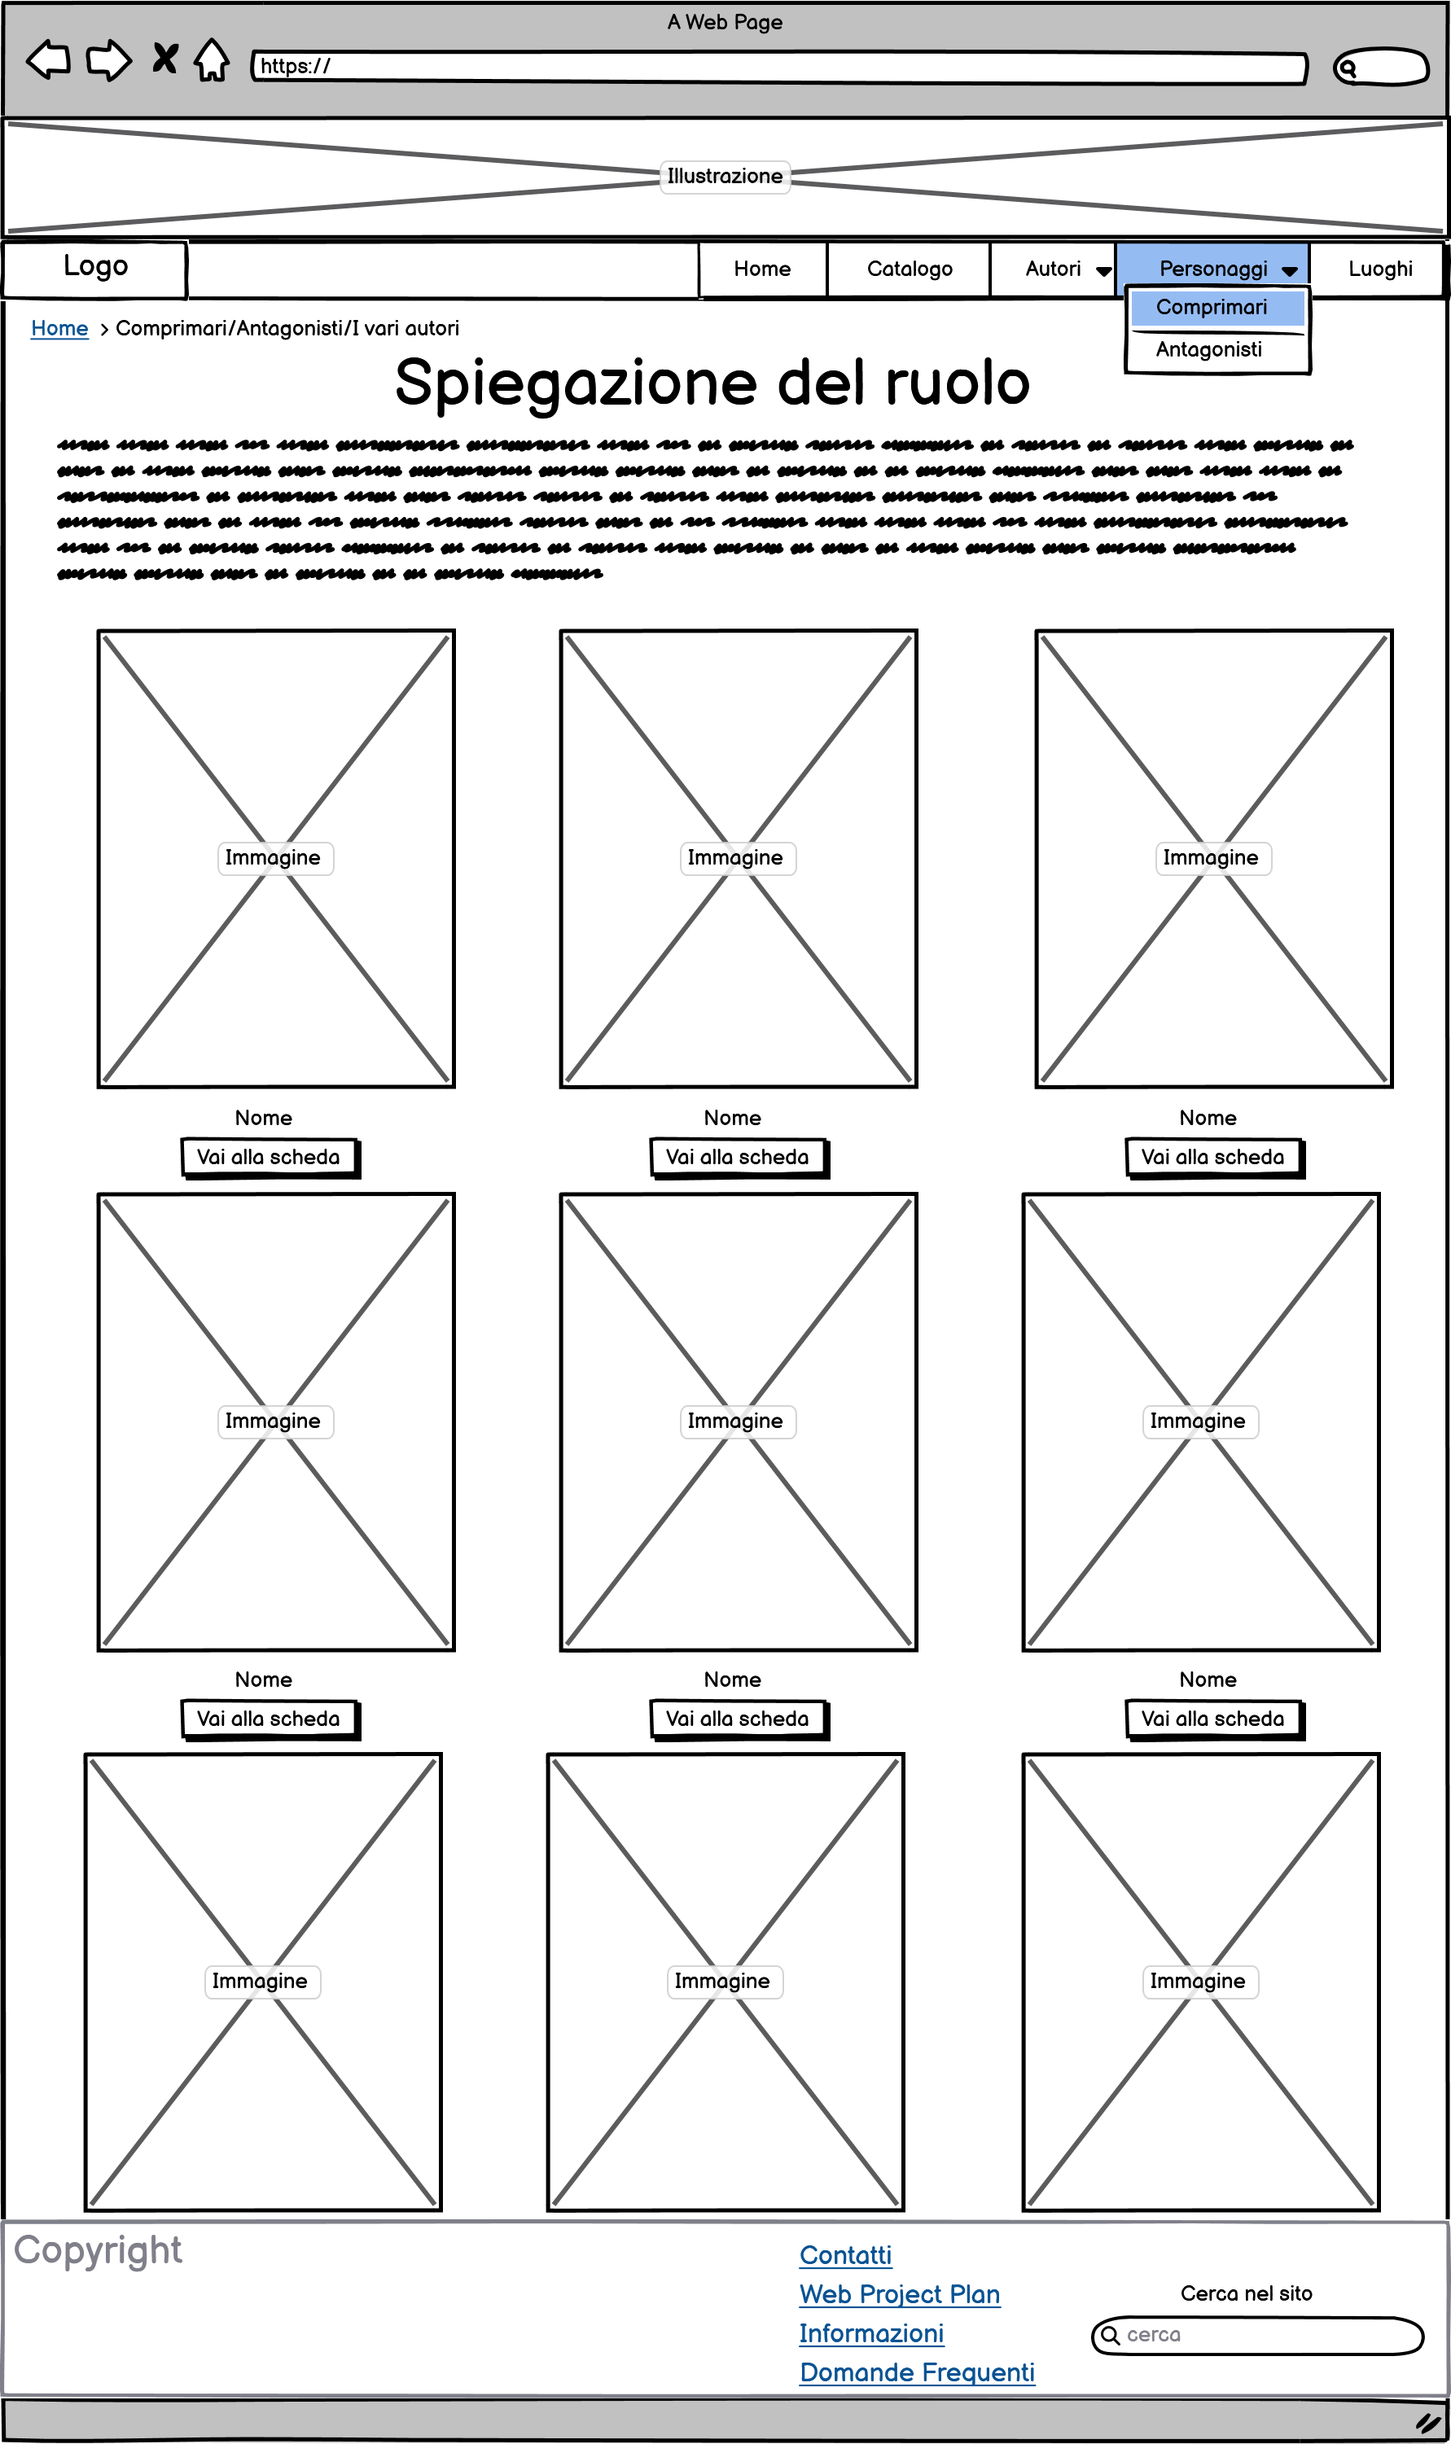
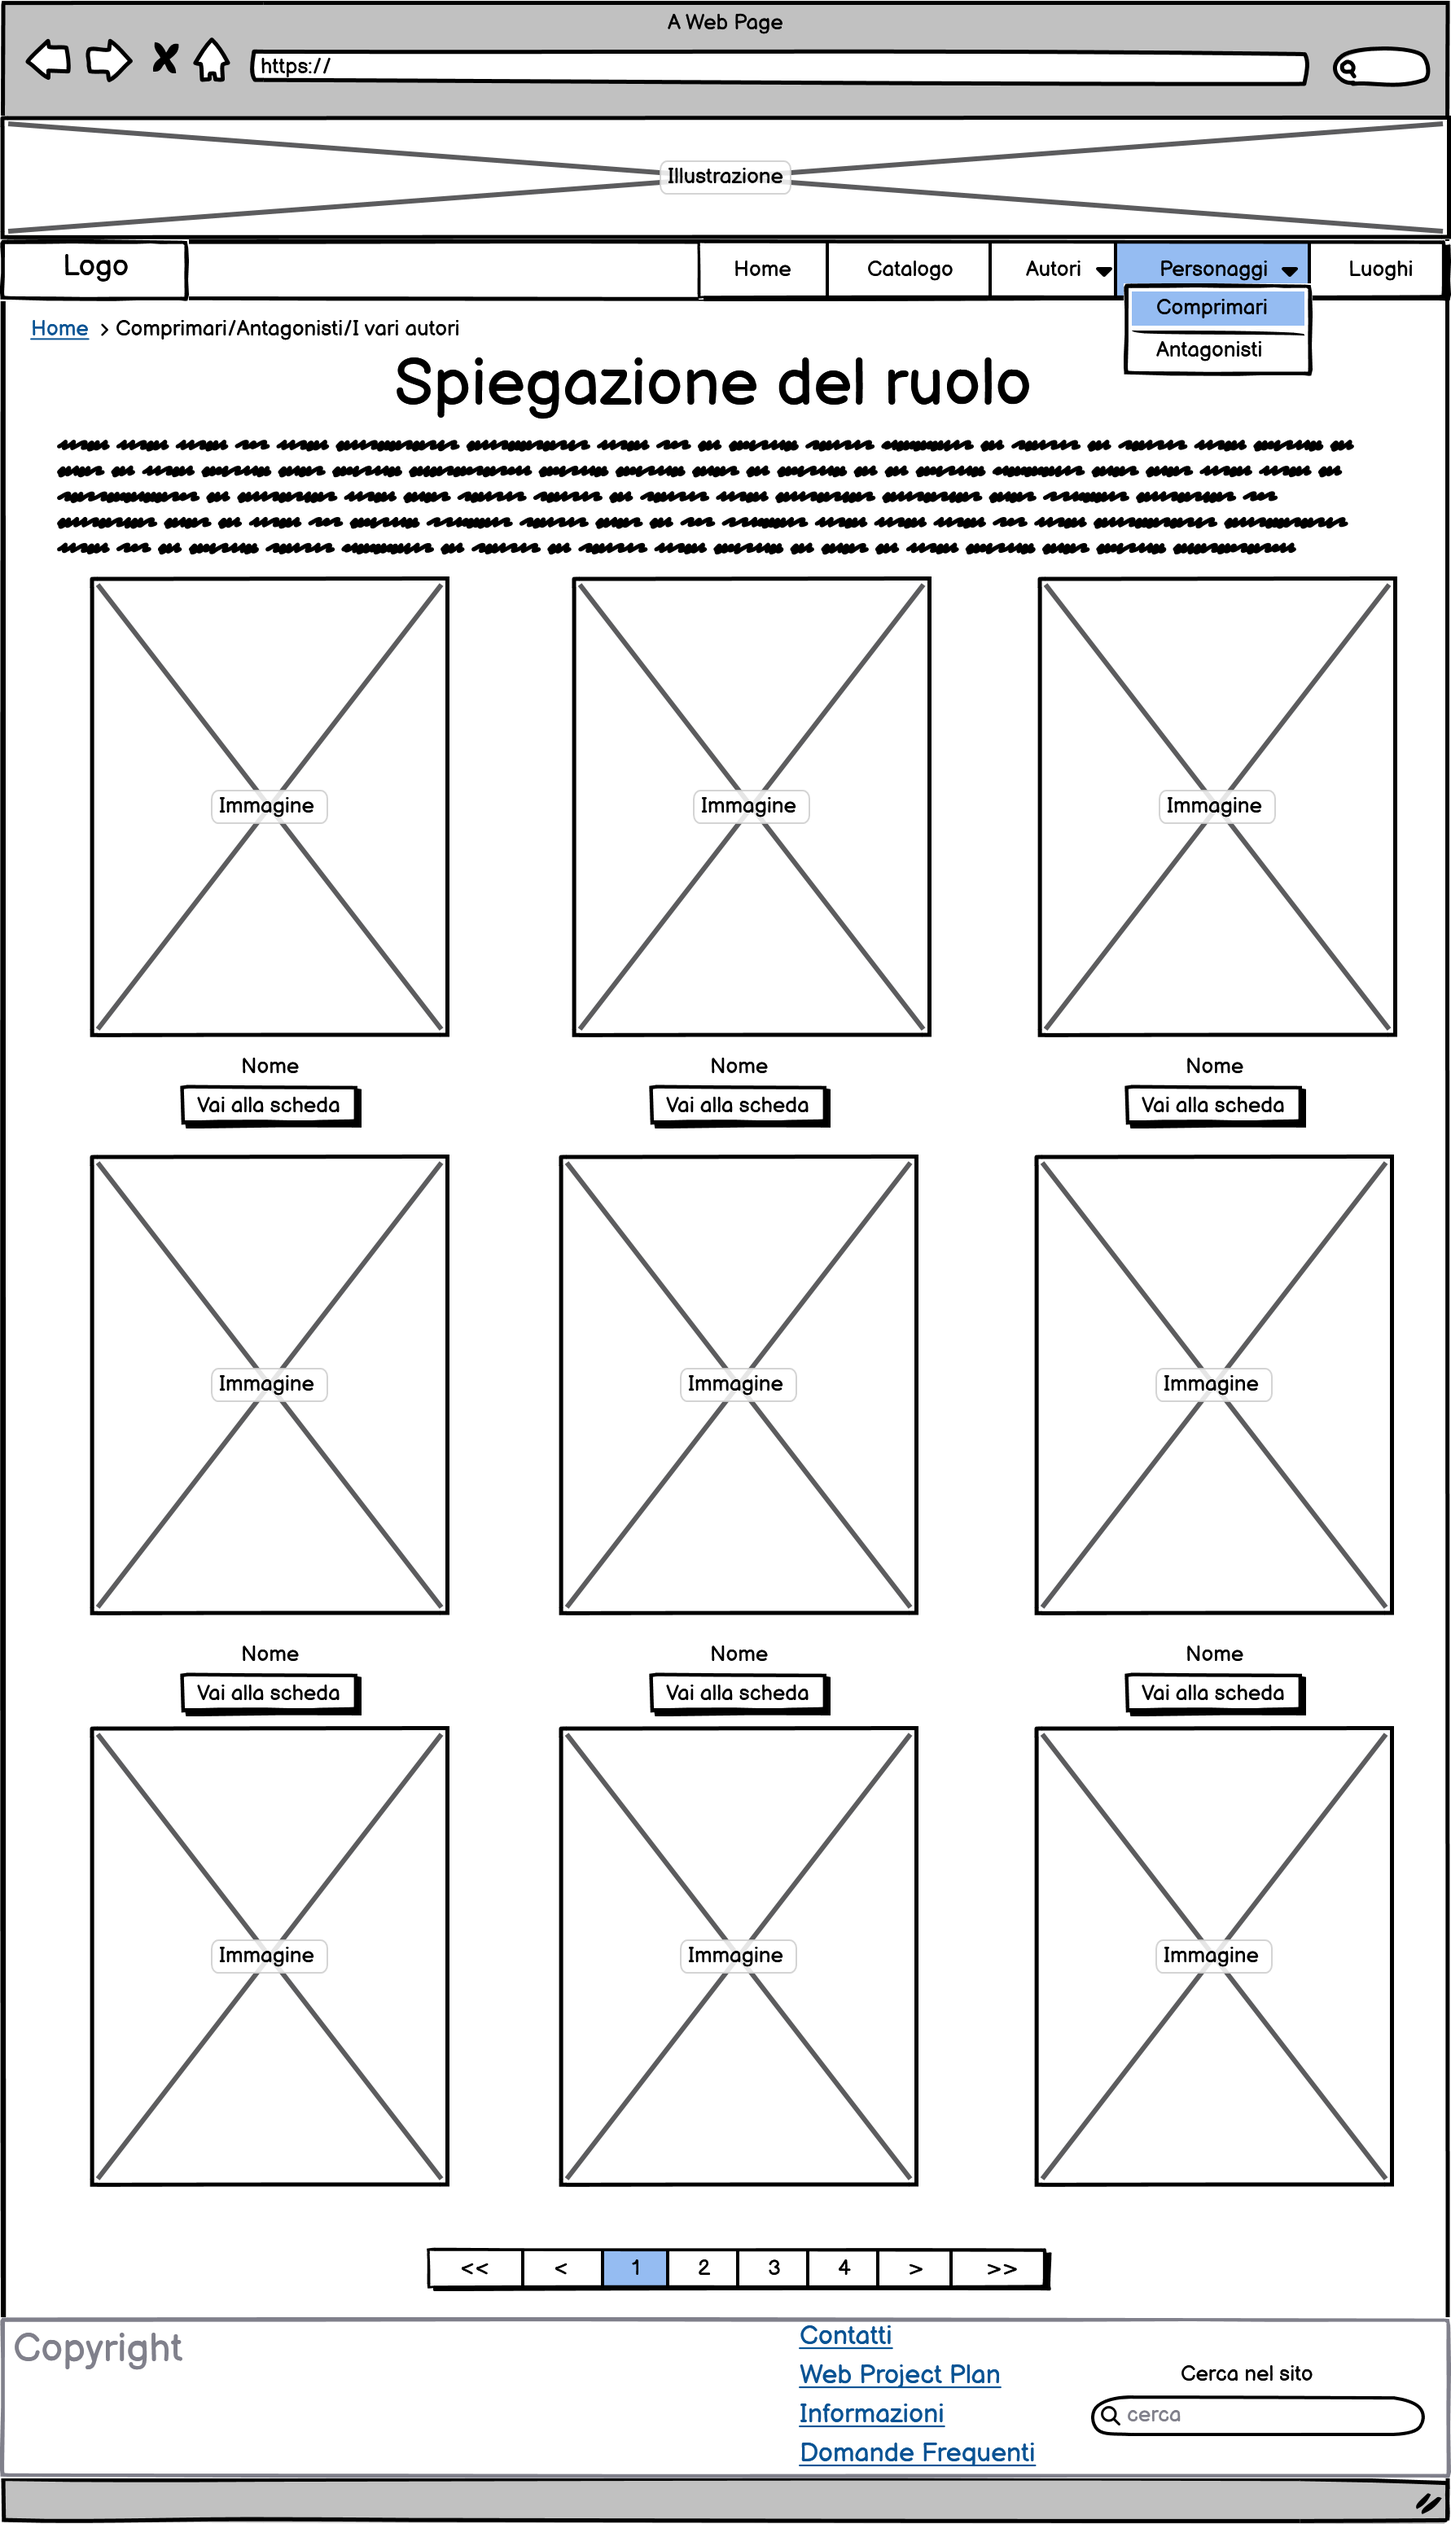
add new layout

Changed region(s): [[0.0, 0.0, 1.0, 0.9913], [0.463, 0.5266, 0.5556, 0.6196], [0.463, 0.2788, 0.5864, 0.3718]]

diff --git a/webprojectplan.html b/webprojectplan.html
@@ -463,7 +463,7 @@
                                         Il corpo è diviso in due sezioni: in quella a sinistra troviamo una colonna con tutti i filtri cioè un accordion con 8 item contenuto in un accordion più grande, questo è stato fatto per facilitare la visualizzazione da dispositivo mobile e anche per non riempire la pagina essendo molti i filtri per categorie applicabili. Troviamo la possibilità di filtrare per uscita, quindi dare un limite cronologico ai fumetti visualizzati, per numero, ordinare dal più al meno recente e viceversa. Quando vogliamo filtrare per Disegnatori, Sceneggiatori, Soggettisti, Cover Artists, Comprimari e Antagonisti possiamo applicare un filtro aprendo l'accordion e applicare uno o più filtri tramite delle checkbox.
                                     </p>
                                     <p class="margin-leggero-left">
-                                        Nella sezione a destra troviamo gli item organizzati su delle righe che possono contenere al massimo 3 item, questo è stato deciso per favorire la visualizzazione con tutti i dispositivi. Ogni item ha indicato gli autori che ci hanno lavorato e un pulsante che porta all'item. In fondo troviamo il footer con la metanavigazione e il copyright.
+                                        Nella sezione a destra troviamo gli item organizzati su delle righe che possono contenere al massimo 3 item, questo è stato deciso per favorire la visualizzazione con tutti i dispositivi. Ogni item ha indicato gli autori che ci hanno lavorato e un pulsante che porta all'item.Sotto troviamo un sistema di pagination per poter scorrere il catalogo. In fondo troviamo il footer con la metanavigazione e il copyright.
                                     </p>
                                 <h4 class="margin-leggero-left">
                                     5.3 Wireframe item
@@ -478,13 +478,19 @@
                                 <h4 class="margin-leggero-left">
                                     5.4 Wireframe Raccolta Autori/Personaggi
                                 </h4>
-
+                                    <img src="images/Layout/Wireframe Raccolta Personaggi_Autori.png" class="img-fluid mx-auto d-block resize-mappa-concettuale" alt="Wireframe raccolta personaggi/autori">
+                                    <p class="margin-leggero-left mt-3">
+                                        Qui abbiamo il wireframe per il layout di varie pagine, in particolare di quelle che si occupano della raccolta di Comprimari o Antagonisti oppure di uno dei vari ruoli autoriali. Nella testata abbiamo sempre l'immagine e la navigazione principale, la navbar.
+                                    </p>
                                     <p class="margin-leggero-left">
-
+                                        Nel corpo del documento troviamo una sezione in cui viene spiegata il ruolo nelle storie o nella creazione del fumetto, così da avere informati gli utenti. Poi sotto troviamo le varie immagini con il nome e un pulsante che rimanda alla scheda, permettendo all'utente di visitarla. Sul fondo è presente un sistema di pagination così da permettere all'utente di esplorare queste mini-raccolte. Nel footer del documento troviamo il copyright e i link di metanavigazione.
                                     </p>
                                 <h4 class="margin-leggero-left">
                                     5.5 Wireframe Scheda Autore/Personaggio
                                 </h4>
+                                    <p class="margin-leggero-left">
+
+                                    </p>
                                 <h4 class="margin-leggero-left">
                                     5.6 Wireframe Luoghi
                                 </h4>
@@ -573,6 +579,9 @@
                                         </li>
                                         <li>
                                             <strong>Carousel:</strong> nella pagina home e nelle pagine item sono presenti dei caroselli. Nella pagina home servono per mostrare alcuni Personaggi e permettere di accedere alle loro schede e fare browsing. Nei livelli item servono per scorrere le varie pagine del fumetto. 
+                                        </li>
+                                        <li>
+                                            <strong>Pagination:</strong> nella pagina catalogo e nelle pagine di raccolta per le due categorie di personaggi e le categorie di autori sono presenti dei sistemi di pagination per poter scorrere ed esplorare anche in questa maniera.
                                         </li>
                                     </ul>
                                 <h4 id="strumentiaggiuntivi" class="margin-leggero-left">
